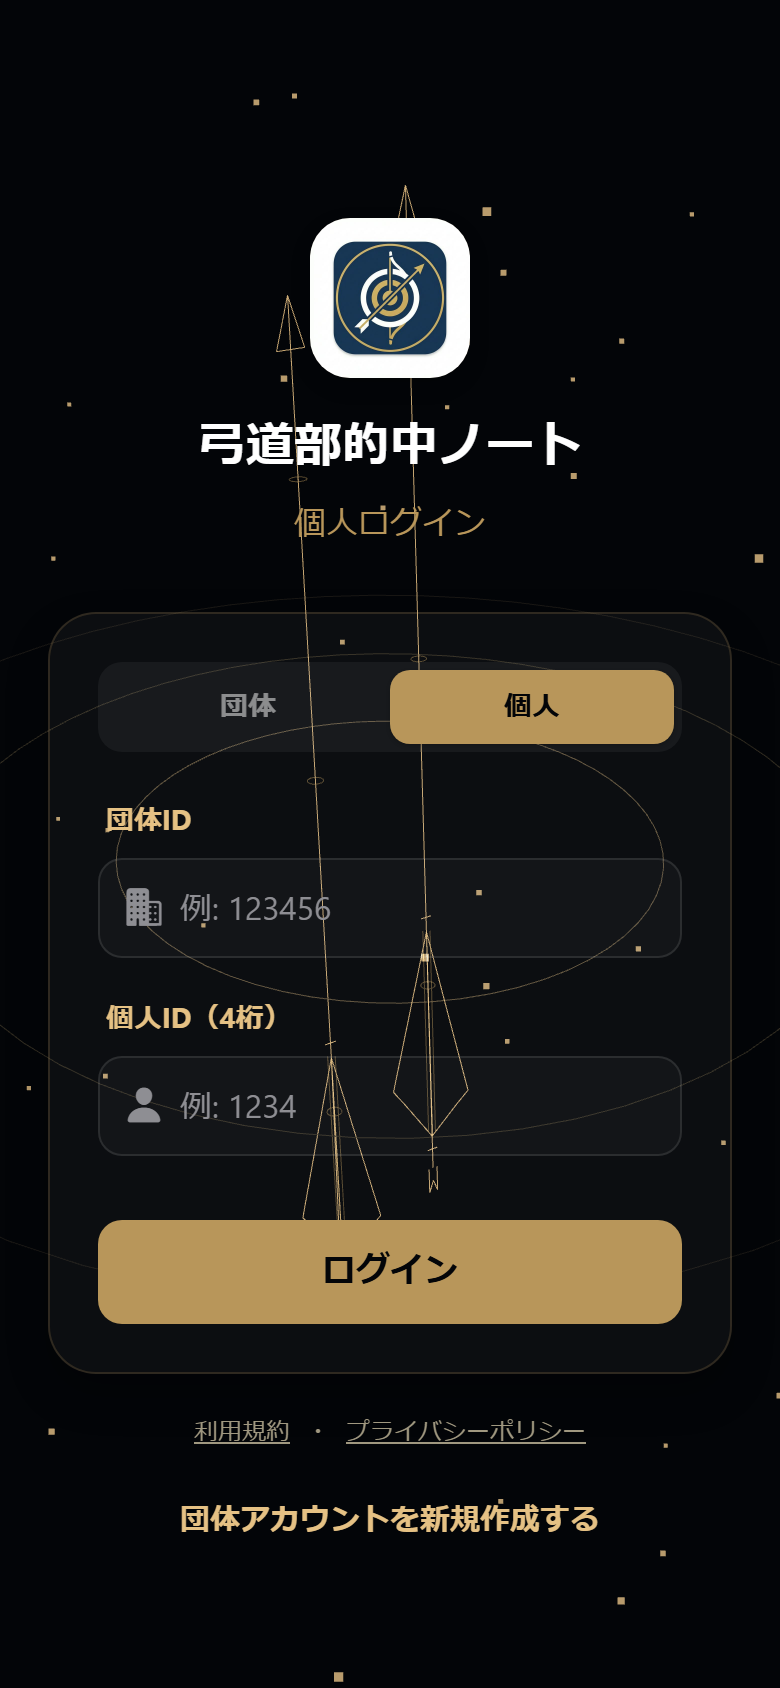
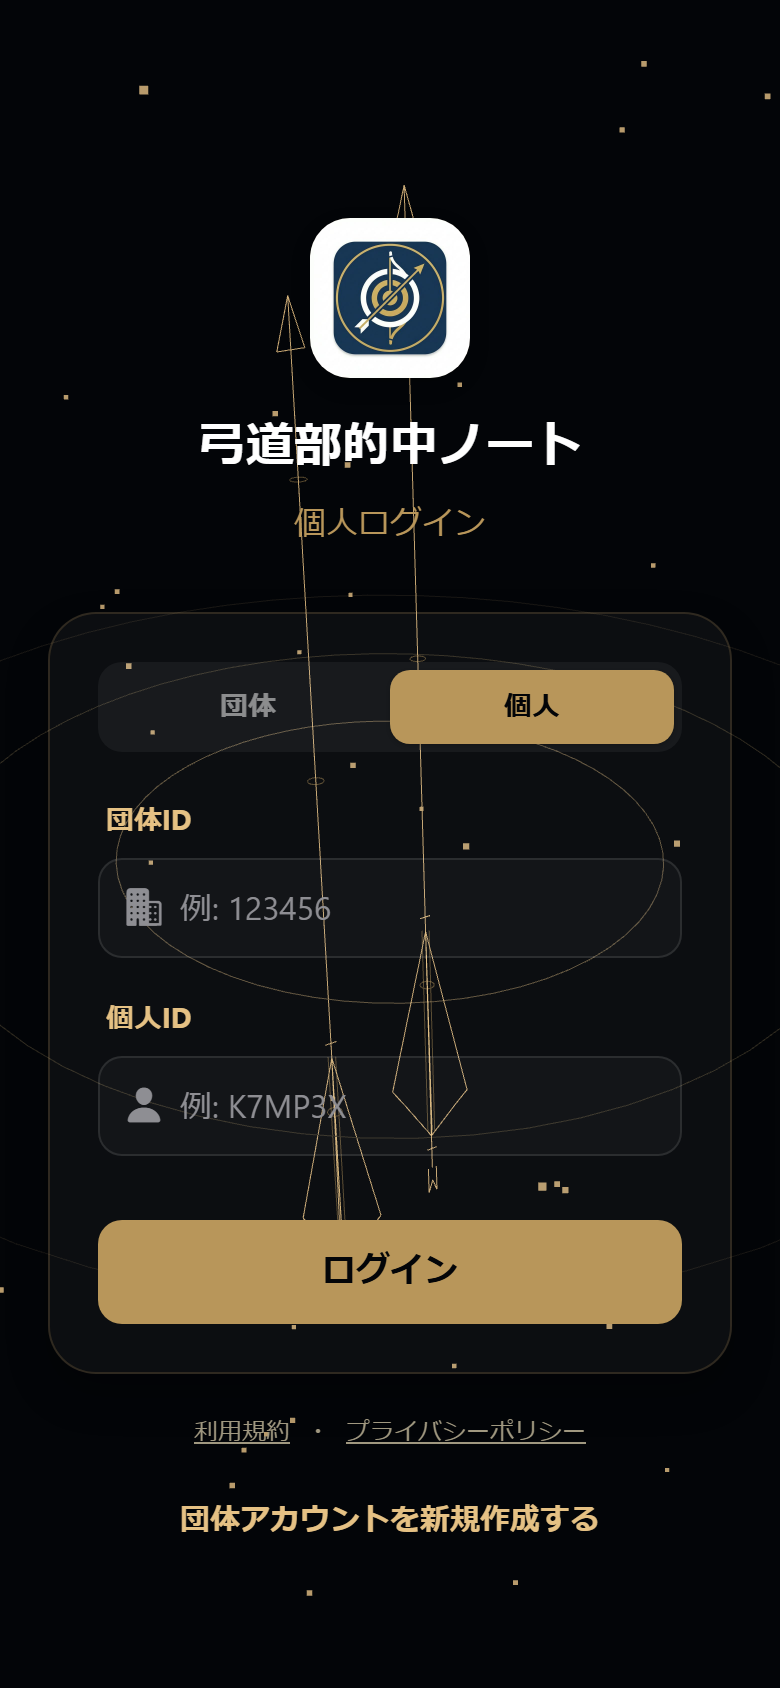
紹介：個人ログインの写真を 6 字で撮り直す・最新版へ自動で入れ替え・AI でまとめて登録・プライバシーポリシーに部員のログインの照合（委託先）

diff --git a/privacy.html b/privacy.html
@@ -91,7 +91,7 @@
 
   <main class="legal-page">
 <h1>プライバシーポリシー</h1>
-<p class="legal-updated">最終更新日: 2026年10月10日</p>
+<p class="legal-updated">最終更新日: 2026年11月8日</p>
 <p>本サービスの提供者（以下「運営者」といいます。運営者の氏名は第19条に定めるところにより開示します。）は、弓道部的中ノート（以下「本サービス」といいます。）における個人情報の取扱いについて、個人情報の保護に関する法律（以下「個人情報保護法」といいます。）その他の関係法令及びガイドラインを遵守し、次のとおりプライバシーポリシー（以下「本ポリシー」といいます。）を定めます。</p>
 <h2>第1条（基本方針）</h2>
 <p>1. 運営者は、個人情報が個人の人格尊重の理念のもとに慎重に取り扱われるべきものであることに鑑み、個人情報の適正な取扱いに努めます。</p>
@@ -254,6 +254,7 @@
 <tr><td>Google LLC</td><td>Firebase App Check（reCAPTCHA）</td><td>本サービスへのアクセスが正規のアプリケーションからのものであるかの判定</td></tr>
 <tr><td>Google LLC</td><td>Gemini API</td><td>生成AI機能における回答及び読取結果の生成</td></tr>
 <tr><td>Cloudflare, Inc.</td><td>Cloudflare Workers</td><td>生成AI機能における Gemini API への送信の中継</td></tr>
+<tr><td>Cloudflare, Inc.</td><td>Cloudflare Workers</td><td>部員としてのログインの際の、団体ID及び個人IDの照合</td></tr>
 <tr><td>Cloudflare, Inc.</td><td>Cloudflare D1 及び Workers KV</td><td>生成AI機能の利用に伴う情報の保存（第12条第8項）</td></tr>
 <tr><td>Apple Inc.</td><td>App Store</td><td>iOS 版アプリケーションの配信（※）</td></tr>
 </tbody></table>
@@ -345,6 +346,7 @@
 <ul>
 <li>2026年9月26日　制定</li>
 <li>2026年10月10日　第4条及び第6条に、団体の同意を得て団体名又は地域を紹介に掲載する場合の取扱いを加えた</li>
+<li>2026年11月8日　第14条の委託先に、部員としてのログインの際の団体ID及び個人IDの照合を加えた</li>
 </ul>
 </main>
 

diff --git a/index.html b/index.html
@@ -698,8 +698,8 @@
           <div class="reliability-icon">🔔</div>
         </div>
         <div>
-          <h3>アプリ更新通知バー（最新版の自動検知）</h3>
-          <p>新バージョンが配信された際は画面に更新通知バーを表示。開きっぱなしの端末でも最新の安全なプログラムへワンタップで更新できます。</p>
+          <h3>最新版へ自動で入れ替え</h3>
+          <p>新しい版は、画面を離れている間や少し触れていない間に自動で入れ替わります。開きっぱなしの端末でも、いつも最新の安全なプログラムで使えます。</p>
         </div>
       </div>
       <div class="reliability-card fade-up">
@@ -734,7 +734,7 @@
         <div class="roadmap-number">2</div>
         <div class="roadmap-content">
           <h3>メンバーを追加</h3>
-          <p>メンバータブから部員の名前・学年を登録。登録された部員にはそれぞれ個人IDが割り振られ、部員個人のスマホからもログインできるようになります。</p>
+          <p>メンバータブから部員の名前・学年を登録。AIアシスタントに名前・学年・性別を送ると、何人でもまとめて登録できます。登録された部員にはそれぞれ個人IDが割り振られ、部員個人のスマホからもログインできるようになります。</p>
         </div>
       </div>
       <div class="roadmap-step">
